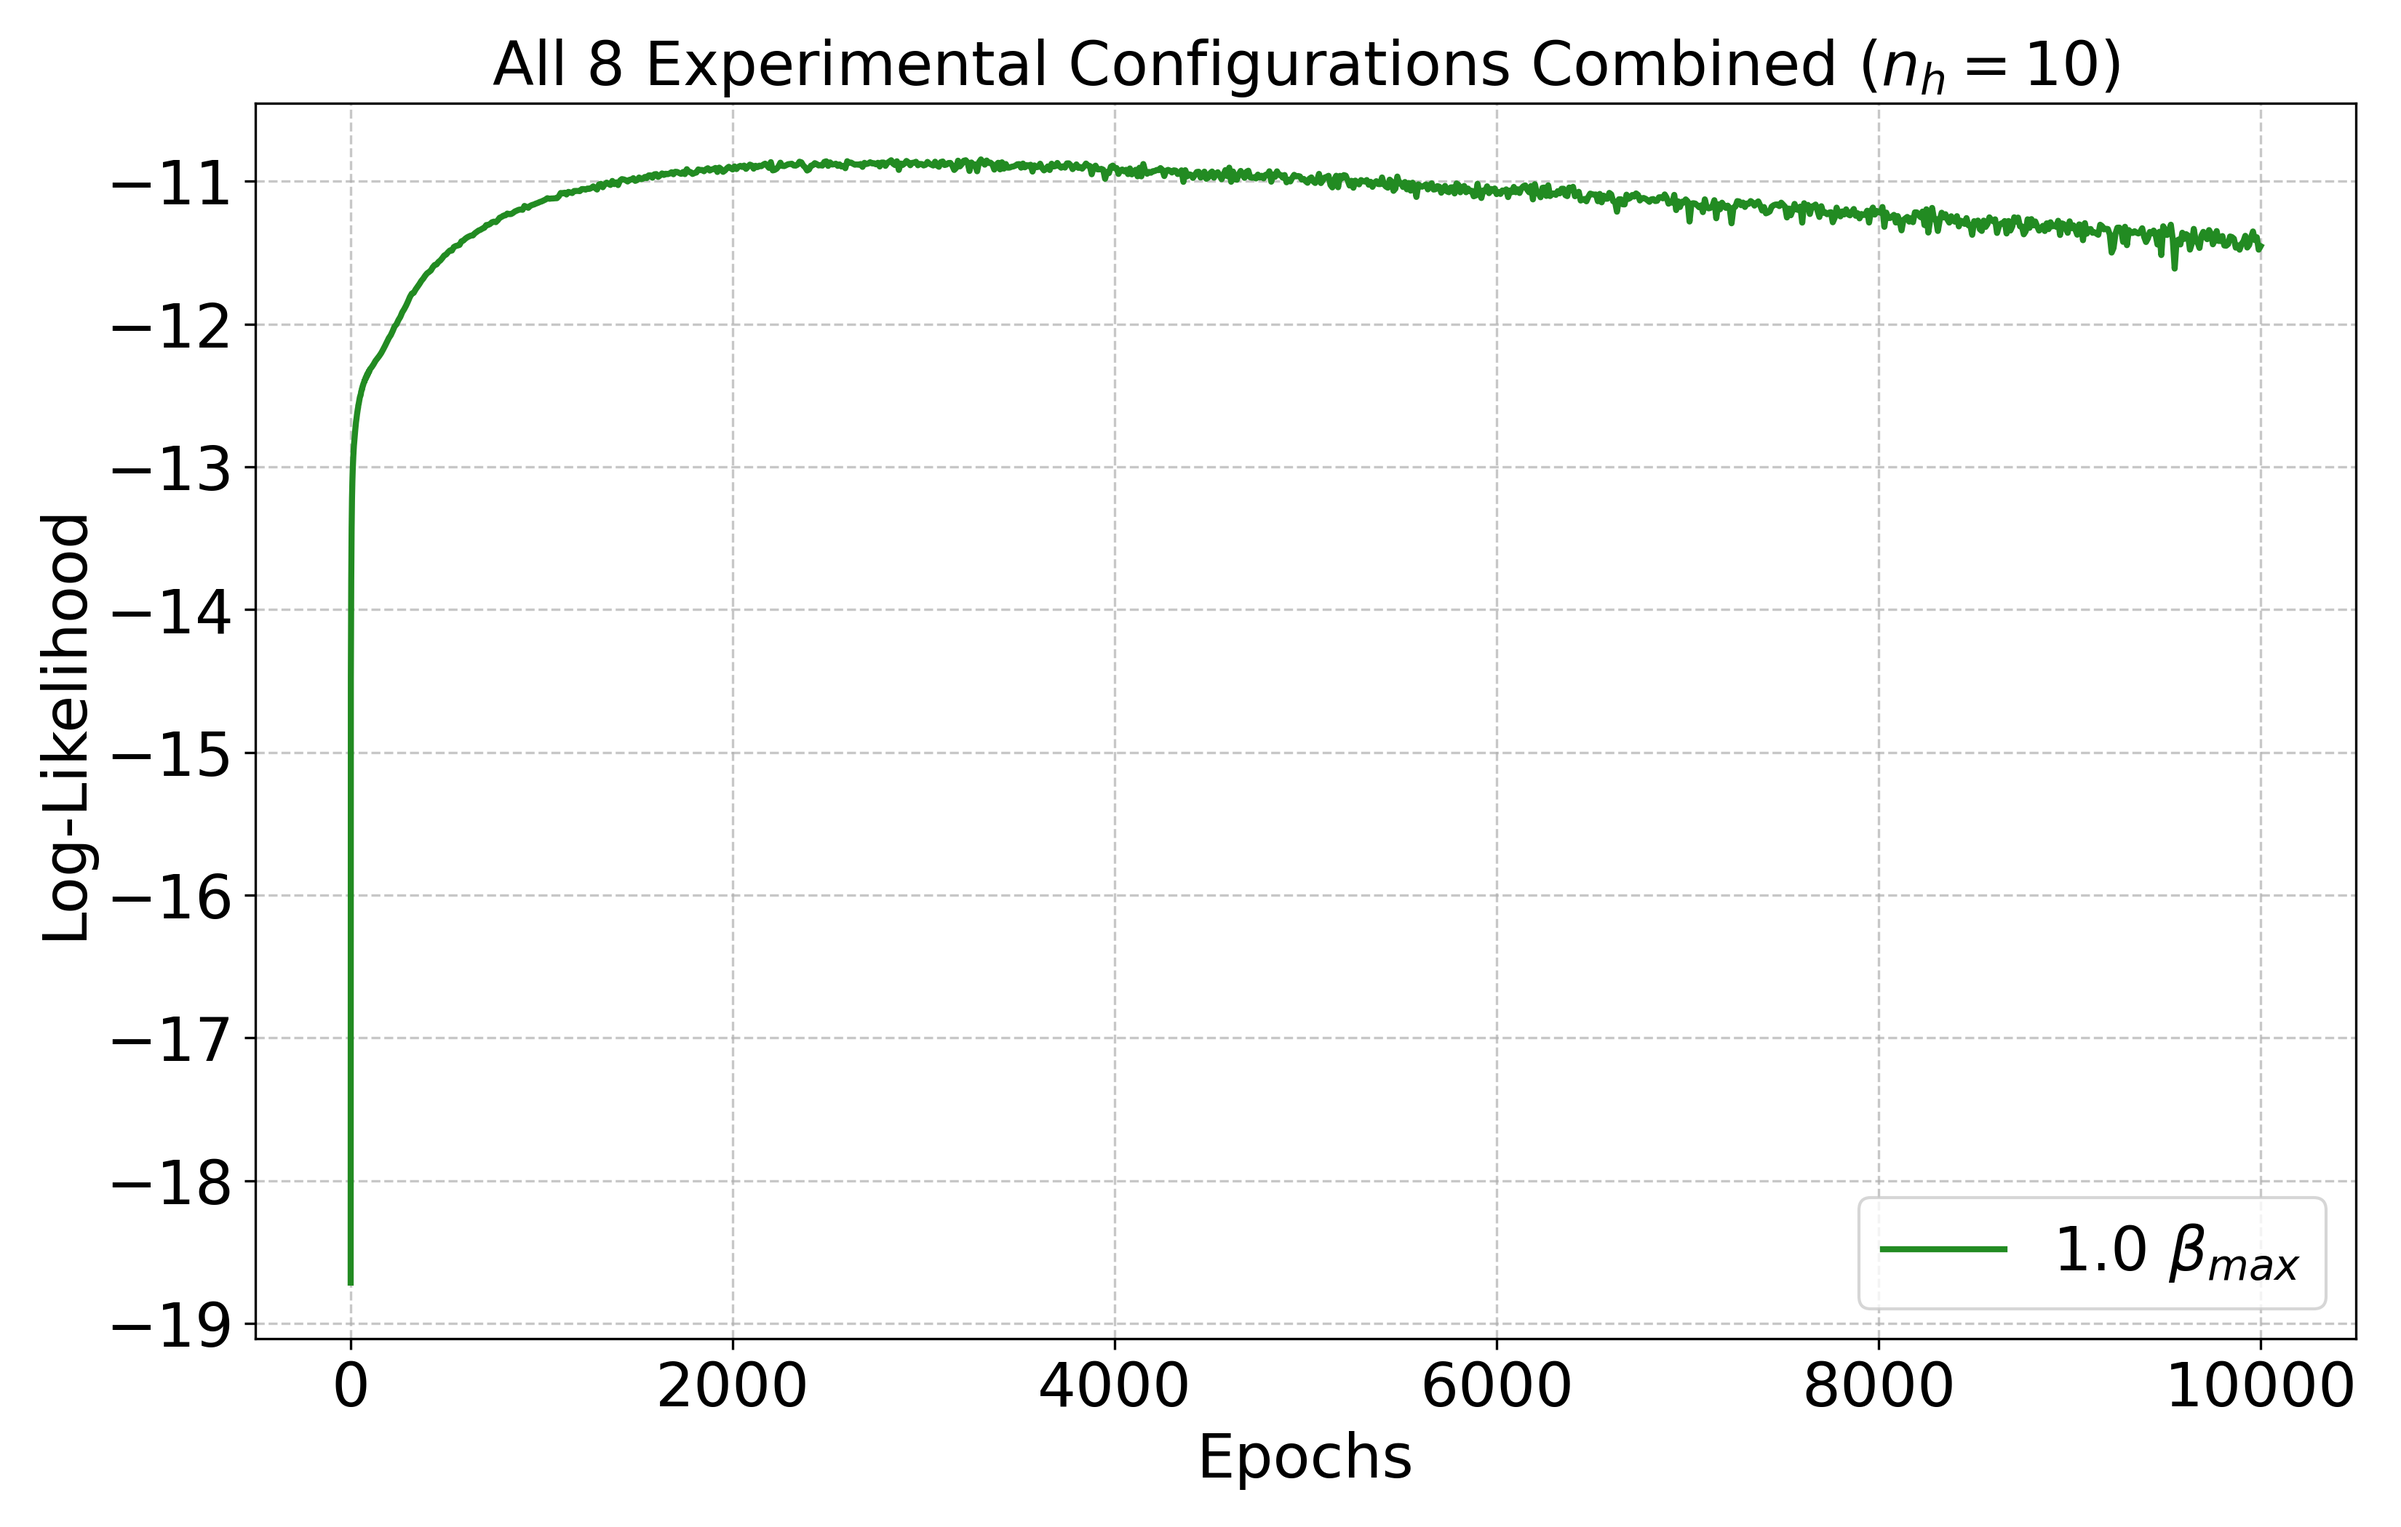
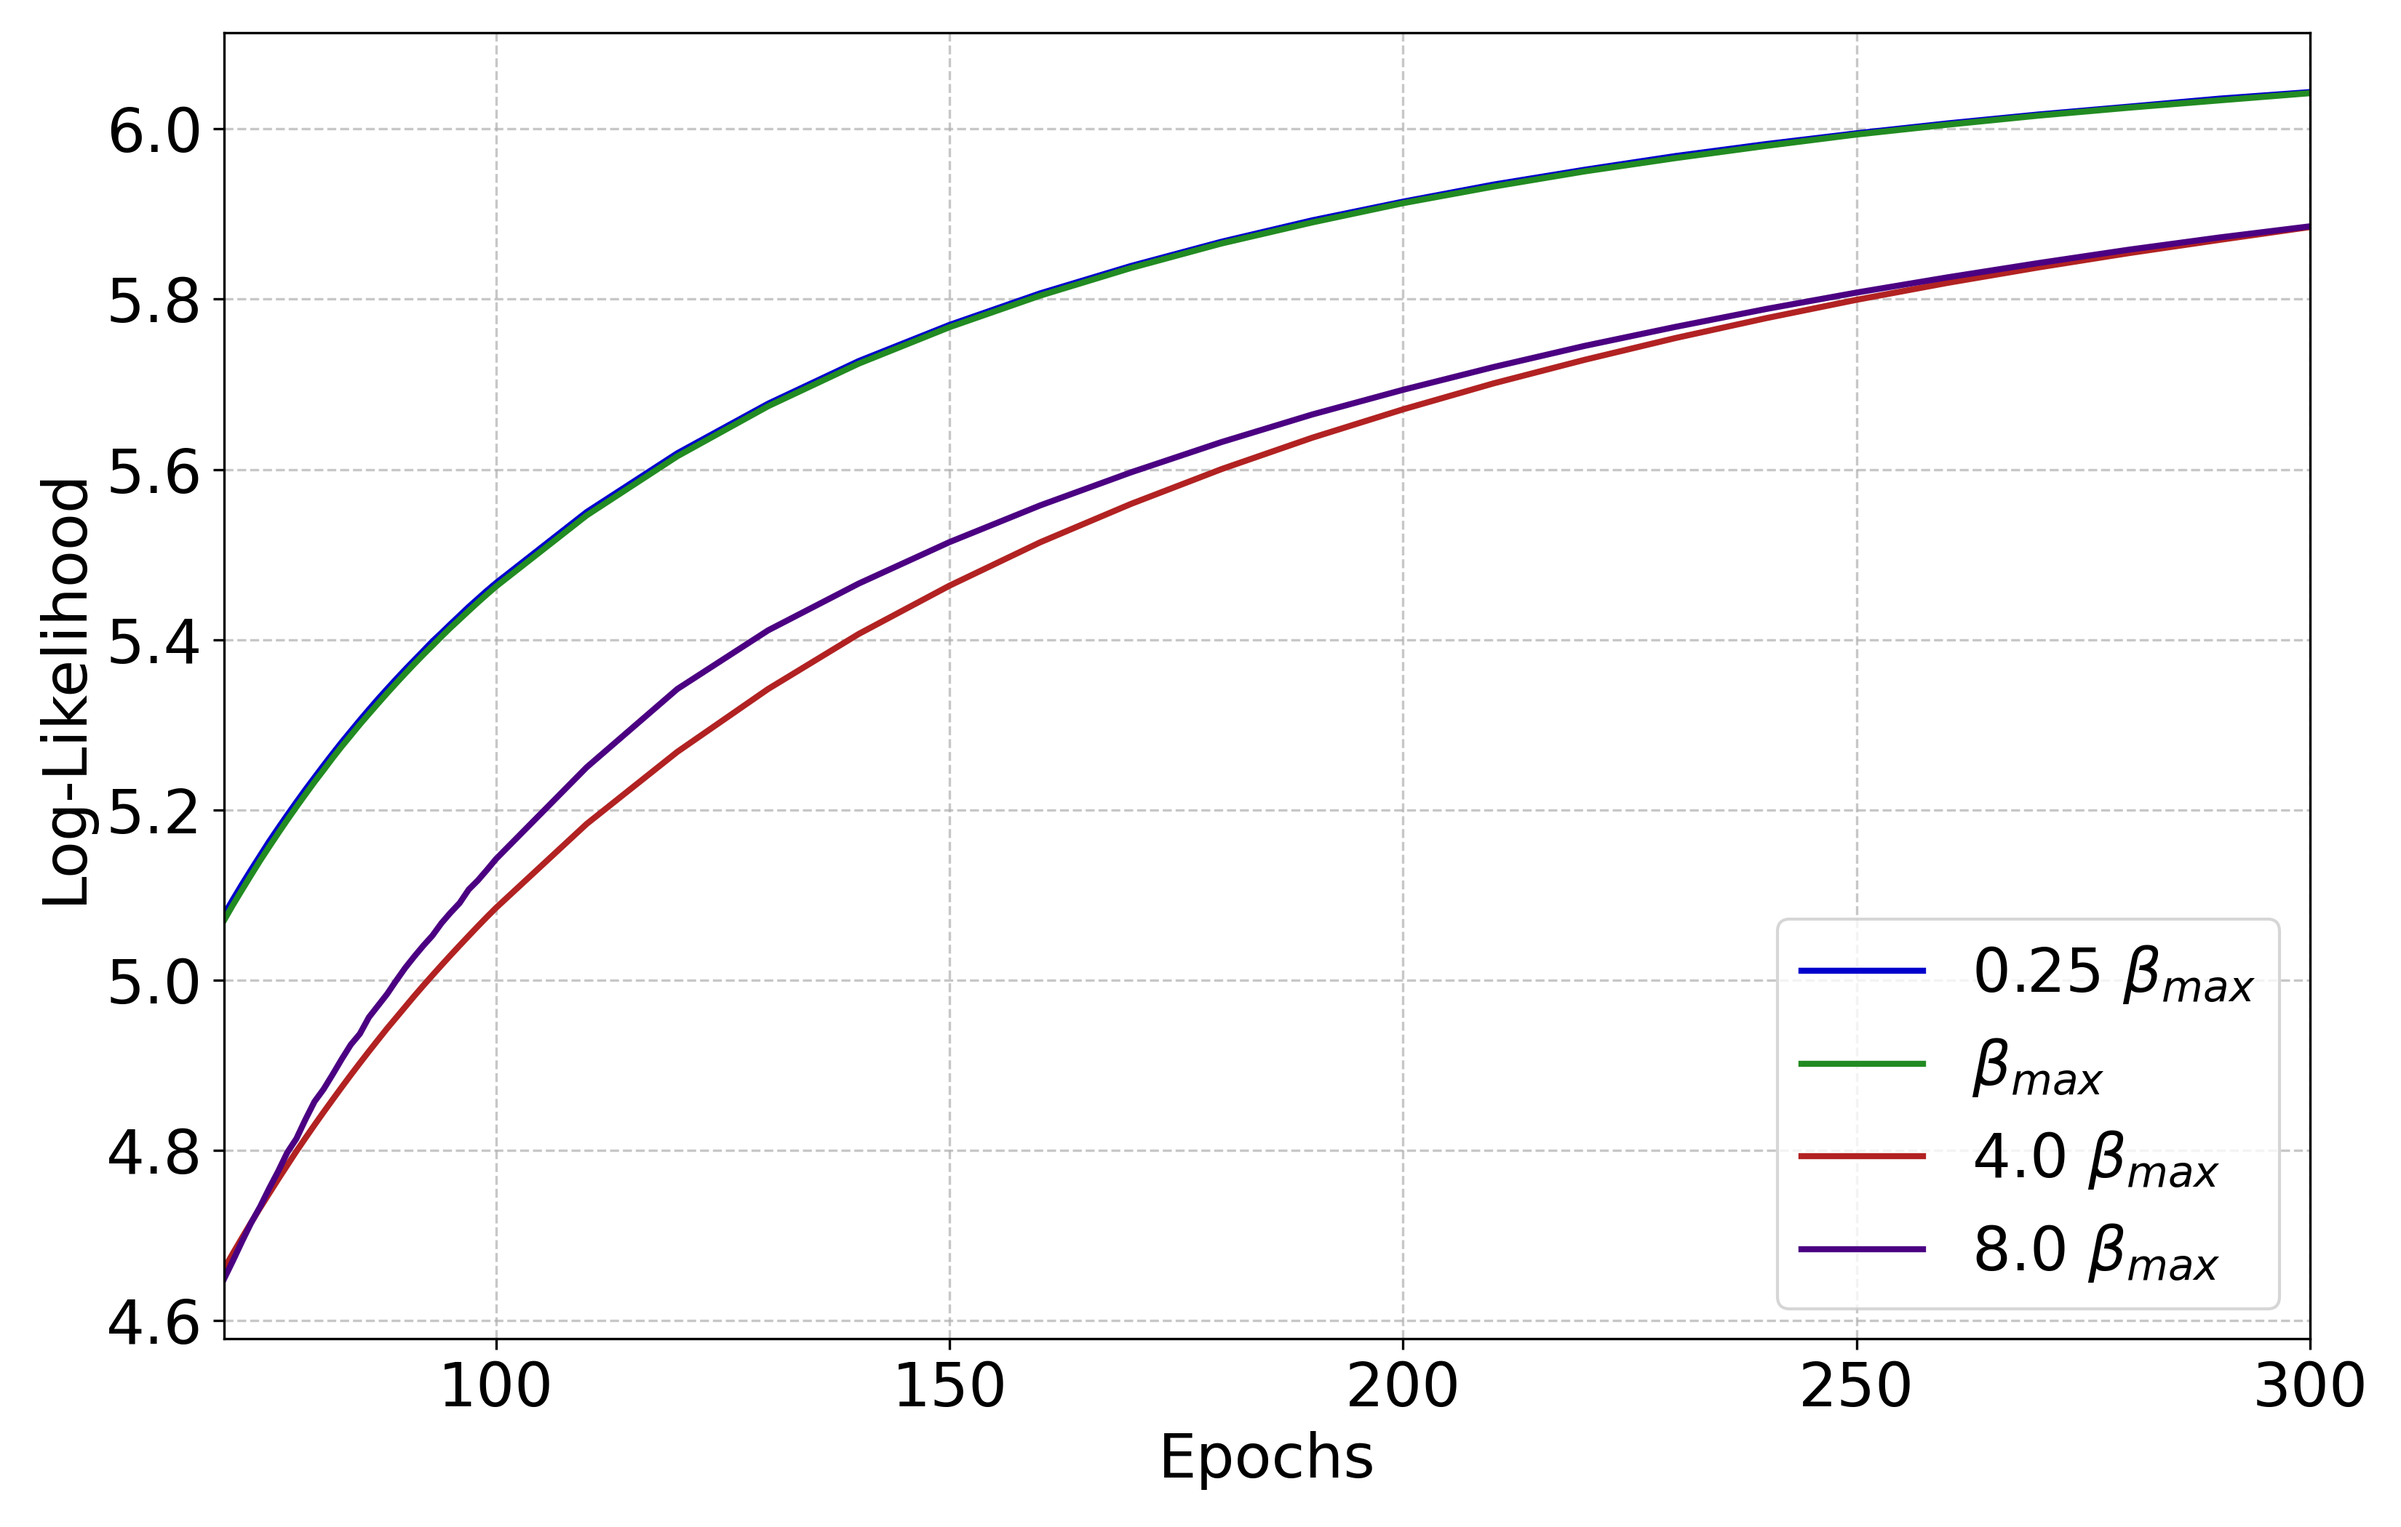
2026/6/15

diff --git a/training_GBRBM/alpha1/CPU_c0/visualize/plot_ll.py b/training_GBRBM/alpha1/CPU_c0/visualize/plot_ll.py
@@ -12,7 +12,7 @@ B_TYPES = ["max", "min"]   # 比較するβのタイプ
 B_RATIOS = [0.25, 1.0, 4.0, 8.0] # 比較するリレーション倍率
 
 # 2. 表示範囲の指定設定 (4パターン対応)
-X_RANGE_MODE = 'all'     # 'all', 'from_start', 'to_end', 'range' の中から選択 
+X_RANGE_MODE = 'range'     # 'all', 'from_start', 'to_end', 'range' の中から選択 
 X_START = 70              # from_start または range モードの開始エポック
 X_END = 300               # to_end または range モードの終了エポック
 Y_MARGIN = 0.05
@@ -28,7 +28,7 @@ LEGEND_BBOX = None#(1.02, 0.5)
 SHOW_STD = False           # True: 表示する, False: 表示しない
 
 # 5. パス設定 (スクリプトの配置場所から見た相対パス)
-DATA_DIR = "../results"
+DATA_DIR = "../_results"
 SAVE_DIR = "plots"
 
 # 6. デザイン・配色設定 (実線のまま濃淡で区別)
@@ -130,7 +130,7 @@ def load_all_results():
 def plot_all_8_combined(data_dict):
     plt.figure(figsize=(11, 7))
     ax = plt.gca()
-    plt.title(f'All 8 Experimental Configurations Combined ($n_h={S_NH}$)', fontsize=FS['suptitle'])
+    #plt.title(f'All 8 Experimental Configurations Combined ($n_h={S_NH}$)', fontsize=FS['suptitle'])
     plt.xlabel('Epochs', fontsize=FS['label'])
     plt.ylabel('Log-Likelihood', fontsize=FS['label'])
     plt.tick_params(labelsize=FS['tick'])
@@ -146,7 +146,10 @@ def plot_all_8_combined(data_dict):
                 
                 # 凡例ラベルの書式変更 (例: "0.25 βmax")
                 # グラフ内のフォントと揃えるため、数学フォント(LaTeX)を使用しています
-                label = f'{b_ratio} $\\beta_{{{b_type}}}$'
+                if b_ratio==1.0:
+                    label = f'$\\beta_{{{b_type}}}$'
+                else:
+                    label = f'{b_ratio} $\\beta_{{{b_type}}}$'
                 
                 # 通常プロット
                 plt.plot(x, mean, label=label, color=c_val, linestyle='-', linewidth=2)

diff --git a/plot_LC.py b/plot_LC.py
@@ -40,8 +40,8 @@ SHOW_MINIMA_DICT = {
 # cの値をキーにして、テキストを点から上方向にどれくらいずらすかの倍率を指定します。
 # デフォルトは 1.2。重なる場合は片方を 1.6 や 2.0 などに変更して調整してください。
 PEAK_TEXT_OFFSET_DICT = {
-    -2: 3.6,
-    -5: 1.6,     # -2 の値と重なる場合は、こちらを上にずらして回避
+    #-2: 3.6,
+    #-5: 1.6,     # -2 の値と重なる場合は、こちらを上にずらして回避
     0.001: 0.1
 }
 
@@ -164,7 +164,8 @@ for ax, alpha in zip(axes, alpha_keys):
                 )
 
     ax.set_yscale("log")
-    ax.set_title(rf"$\alpha={alpha:g}$", fontsize=FONT_SIZE)
+    #ax.set_title(rf"$\alpha={alpha:g}$", fontsize=FONT_SIZE)
+    #ax.set_title(rf"$\alpha={alpha:g}$での層相関", fontsize=FONT_SIZE)
     ax.tick_params(labelsize=FONT_SIZE)
     ax.grid(True, which="both", linestyle="--", alpha=1.0)
     
@@ -173,10 +174,12 @@ for ax, alpha in zip(axes, alpha_keys):
         ax.set_xlim(BETA_RANGE)
     
     # --- 凡例の描画 ---
+    """
     if LEGEND_BBOX is not None:
         ax.legend(fontsize=FONT_SIZE*0.8, loc=LEGEND_LOC, bbox_to_anchor=LEGEND_BBOX)
     else:
         ax.legend(fontsize=FONT_SIZE*0.8, loc=LEGEND_LOC)
+    """
 
 axes[-1].set_xlabel(r"$\beta$", fontsize=FONT_SIZE)
 axes[0].set_ylabel(r"$\chi$", fontsize=FONT_SIZE)
